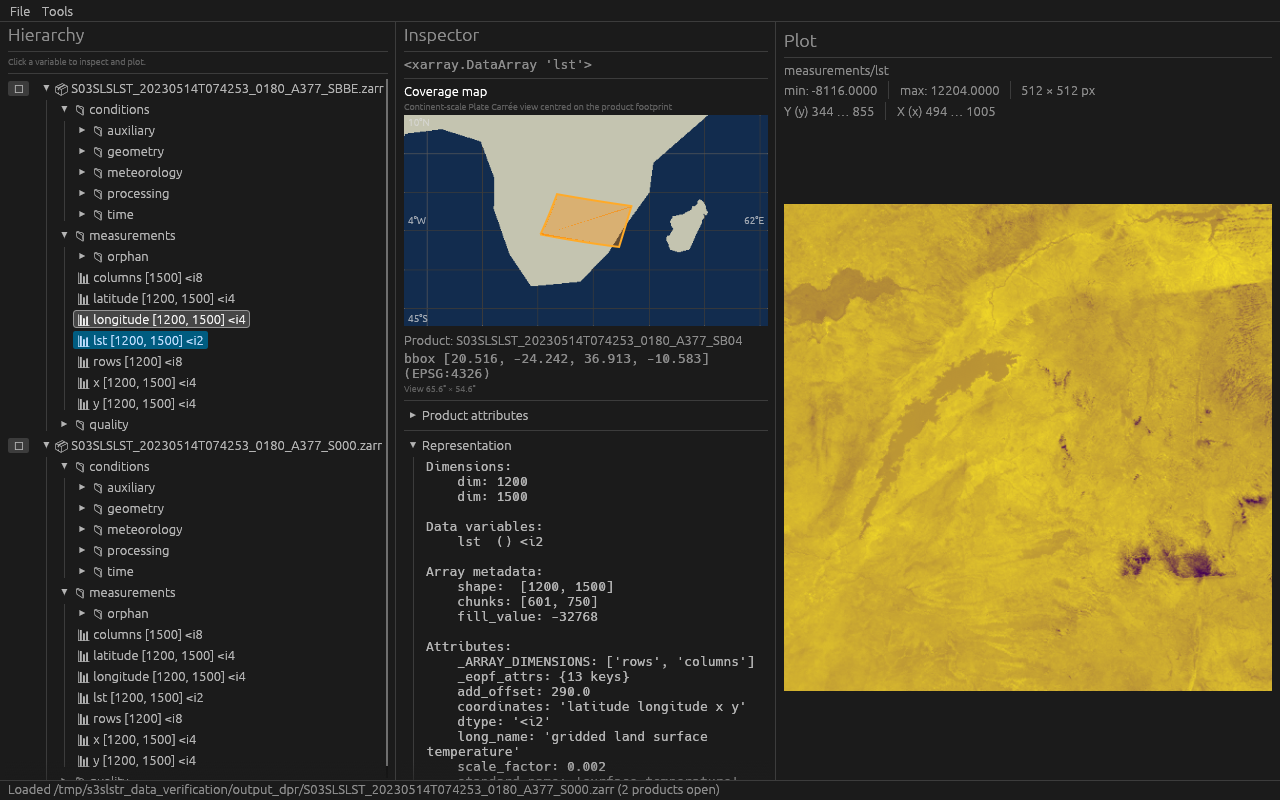
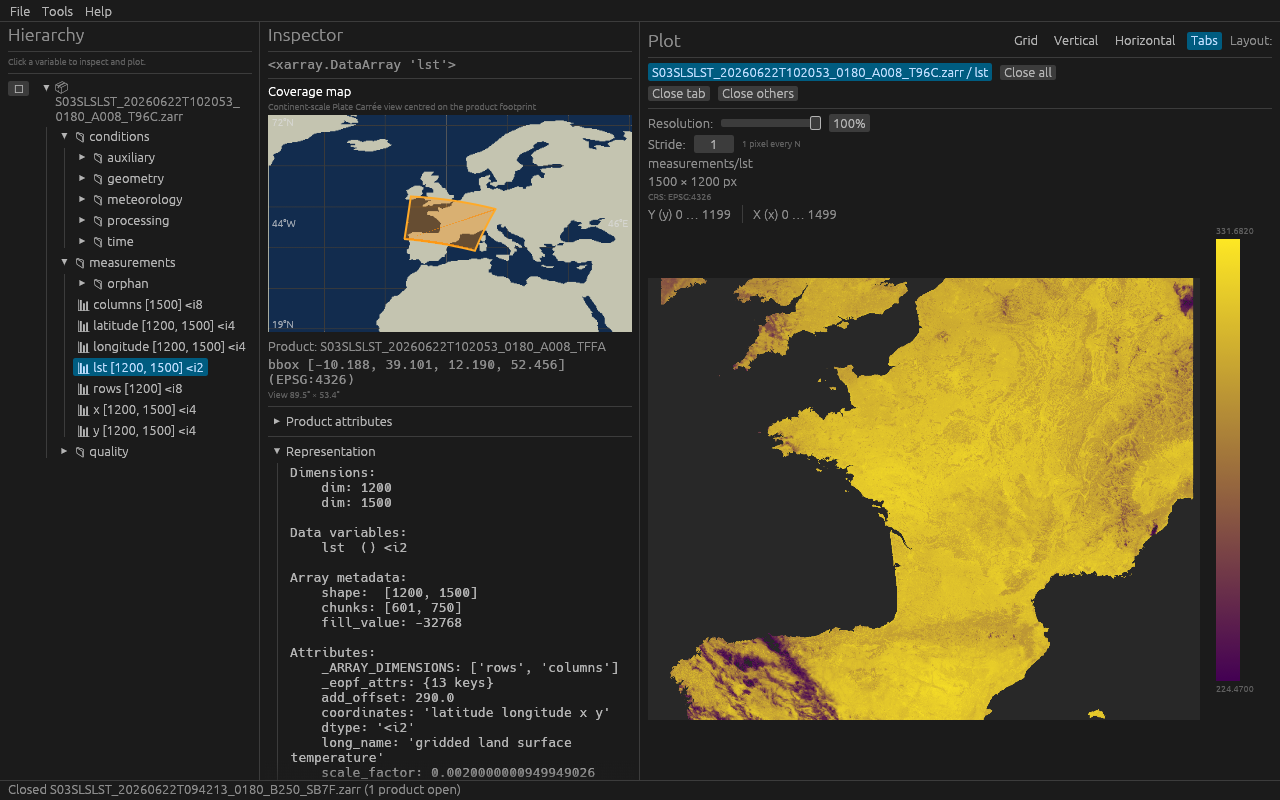
update documentation

diff --git a/docs/TUTORIAL.md b/docs/TUTORIAL.md
@@ -1,0 +1,118 @@
+# Tutorial
+
+This walkthrough uses **Sentinel-3 SLSTR Level-2 LST** (*Land Surface Temperature*) products in the [EOPF Zarr](https://cpm.pages.eopf.copernicus.eu/eopf-cpm/main/PSFD/index.html) format and the legacy **SAFE** (`.SEN3`) format. You will open products, plot variables, inspect quality flags, compare a reprocessed dataset against a reference, and configure S3 credentials for remote storage.
+
+## Prerequisites
+
+- A built copy of Copernicus Viewer (see the [README](../README.md) for build instructions).
+- At least one EOPF Zarr LST product (local directory or `s3://` URI).
+- Optionally, the matching `.SEN3` product for the SAFE and comparison steps (requires the default `safe` feature).
+
+Launch the viewer with one or two products already on the command line:
+
+```bash
+cargo run -- /path/to/reference.zarr /path/to/new.zarr
+```
+
+You can also open products later from **File → Open Zarr…**.
+
+---
+
+## Open the product and plot the land-surface temperature heatmap
+
+When a product loads, it appears as a top-level entry in the **Hierarchy** panel on the left. Expand **measurements** and click **`lst`** — the gridded land-surface temperature field (`1200 × 1500`, 16-bit integer with CF scale/offset).
+
+The **Inspector** (centre) shows an xarray-style summary: dimensions, chunking, attributes, statistics, and a **Coverage** map with the product footprint over Europe. The **Plot** panel (right) loads the heatmap asynchronously; a progress bar appears while data is read and decoded.
+
+![Land-surface temperature heatmap at full resolution](screenshots/01-explore-lst.png)
+
+The plot is geo-referenced: axis labels show row/column indices and the colour bar spans decoded physical values (kelvin). Use the **Resolution** slider (1–100 %) to read a centre crop at lower spatial resolution — useful for very large arrays. **Stride** keeps every *N*th pixel along each axis for faster rendering.
+
+### Add another variable to the plot workspace
+
+Click any other array in the hierarchy to open it in a new plot tab. Copernicus Viewer deduplicates tabs per product and variable, so selecting the same field again focuses the existing tab.
+
+To compare two variables side by side, switch the layout to **Horizontal** (or **Vertical** / **Grid**) in the plot toolbar. The screenshot below shows **`lst`** next to **`lst_uncertainty`** from the **quality** group:
+
+![Side-by-side plots: LST and LST uncertainty](screenshots/02-add-variable.png)
+
+Each tab has its own resolution and stride controls. Close a tab with **✕** on the tab label.
+
+### Plot a CF quality flag
+
+Many quality variables carry `flag_meanings` and `flag_values` (or bit masks). Select a flag array such as **`confidence_in`** under **quality**, then choose a flag layer from the **Flag** drop-down in the plot panel — for example **summary_cloud** (bit 14):
+
+![Binary flag plot — summary cloud mask](screenshots/03-cloud-flag-example.png)
+
+Flag plots use a two-colour scale (set / unset). Raw values remain available via **Flag → Raw values**.
+
+---
+
+## Open the legacy SAFE product
+
+Sentinel-3 products distributed as `.SEN3` directories can be opened the same way as Zarr stores: **File → Open Zarr…**, browse to the `.SEN3` folder, or pass the path on the command line. The viewer maps NetCDF variables to the same EOPF-like hierarchy used for Zarr (groups such as **measurements**, **conditions**, **quality**).
+
+![Legacy SAFE product in the hierarchy with LST selected](screenshots/04-open-safe.png)
+
+In the example above, both the Zarr and SAFE versions of the same acquisition are open. The SAFE **`lst`** array lives under **measurements → orphan** and shares the same `1200 × 1500` grid and CF attributes (`scale_factor`, `add_offset`, `_FillValue`) as the EOPF product. Select it to plot or inspect metadata exactly as for Zarr.
+
+> **Note:** Opening a product reads hierarchy metadata only. Array values are loaded when you plot or when a comparison run reads them.
+
+---
+
+## Compare both products
+
+With a reference and a new product open (Zarr vs Zarr, or SAFE vs Zarr), open **Tools → Comparison**.
+
+1. Choose **Reference (A)** and **New product (B)** from the drop-downs.
+2. Enable the checks you need — **Structure**, **Variable data**, and **Flags / masks** are available independently.
+3. Set thresholds (absolute/relative error, maximum outlier ratio) and click **Run comparison**.
+
+![Comparison tool — reference SAFE vs new Zarr, overall PASSED](screenshots/05-comparison.png)
+
+The report lists each shared hierarchy path with **PASS**, **FAIL**, or **SKIP**. Structure differences (missing variables, dtype/shape mismatches) appear first; numerical checks compare chunk-aligned subsets on the reference grid. In this example 46 variables pass; auxiliary meteorology fields may be skipped when they exist in only one product format.
+
+The same logic is available from the CLI:
+
+```bash
+cargo run --example compare_products -- /path/to/reference.zarr /path/to/new.zarr
+```
+
+---
+
+## Configure S3 credentials
+
+Remote EOPF products on AWS S3 (including custom endpoints) are opened with `s3://bucket/path/product.zarr` or via the in-app browser. Credentials are stored in an INI file — by default `~/.config/cp-rs/s3.conf` on Linux and macOS.
+
+Open **File → Configure S3…** to edit buckets without leaving the app:
+
+![S3 configuration dialog](screenshots/06-s3-config.png)
+
+For each bucket section, provide:
+
+| Field | Example |
+|-------|---------|
+| Bucket name | `my-eopf-bucket` |
+| Access key ID | your access key |
+| Secret access key | your secret key |
+| Region | `eu-west-1` |
+| Endpoint | `https://s3.example.com` (optional, for S3-compatible storage) |
+
+Click **Add** to create a section, fill in the fields, then **Save**. Use **Test connection** to verify credentials before saving.
+
+Alternatively, set environment variables (`AWS_ACCESS_KEY_ID`, `AWS_SECRET_ACCESS_KEY`, …) or point to a custom file with `COPERNICUS_VIEWER_S3_CONFIG`. See the [S3 section in the README](../README.md#s3-object-storage) for the full resolution order and URI examples.
+
+Once configured, use **File → Open Zarr… → S3** to browse buckets and prefixes, or paste an `s3://` URI directly. Download an open S3 product locally via **File → Download product…**.
+
+---
+
+## Next steps
+
+- Inspect root metadata under **Product attributes** in the inspector (STAC / EOPF fields, foldable tree).
+- Download sample Zarr products from the [EOPF Sentinel Zarr Samples Service](https://zarr.eopf.copernicus.eu/).
+- Regenerate the screenshots in this tutorial (maintainers):
+
+```bash
+COPERNICUS_VIEWER_CAPTURE_DEMO=docs/screenshots cargo run -- \
+  /path/to/reference.zarr /path/to/new.zarr
+```

diff --git a/README.md b/README.md
@@ -31,11 +31,11 @@ Both products appear in the **Hierarchy** panel. Select **`measurements/lst`** t
 
 Configure S3 bucket credentials from **File → Configure S3…**:
 
-![S3 bucket configuration dialog](docs/screenshots/02-s3-config.png)
+![S3 bucket configuration dialog](docs/screenshots/06-s3-config.png)
 
 Open **Tools → Comparison**, pick the reference and new product, then run the check. The report lists structure, variable, and flag differences — here four auxiliary variables differ while 64 measurement variables pass:
 
-![Product comparison — reference vs reprocessed SLSTR LST](docs/screenshots/03-comparison.png)
+![Product comparison — reference vs reprocessed SLSTR LST](docs/screenshots/05-comparison.png)
 
 The same comparison logic is available from the CLI:
 
@@ -49,6 +49,8 @@ To regenerate the README screenshots (maintainers):
 COPERNICUS_VIEWER_CAPTURE_DEMO=docs/screenshots cargo run -- \
   /path/to/reference.zarr /path/to/new.zarr
 ```
+
+For further details, see the [tutorial](docs/TUTORIAL.md).
 
 ## Requirements
 